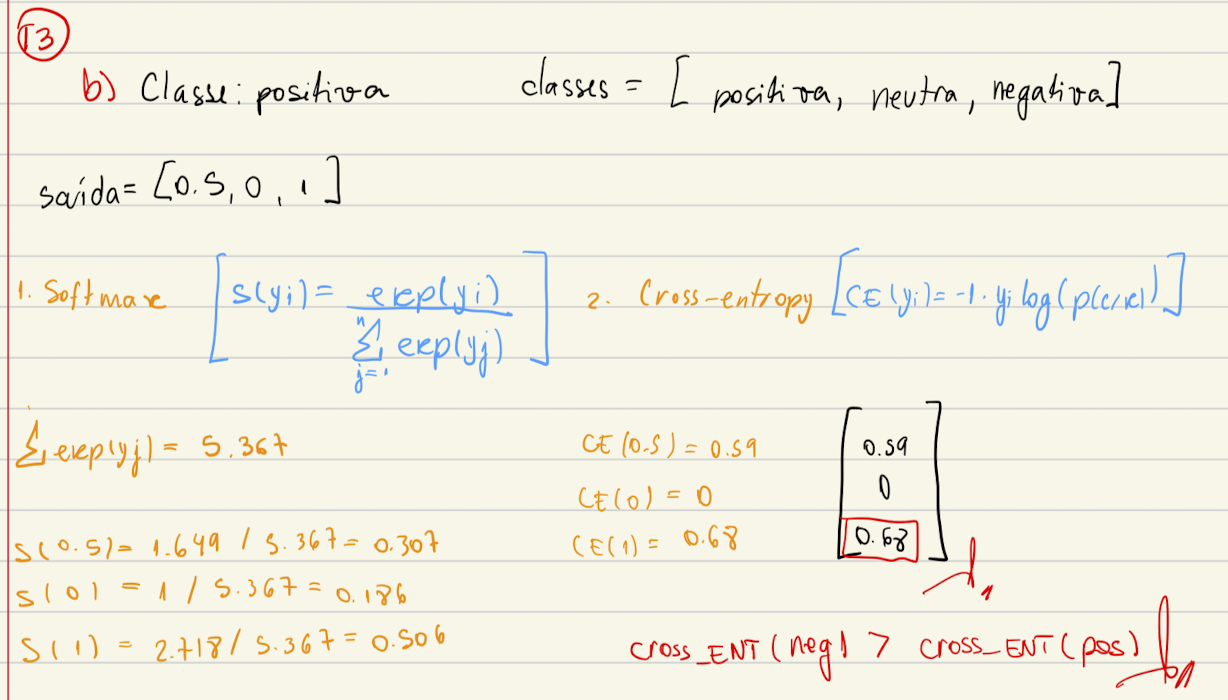
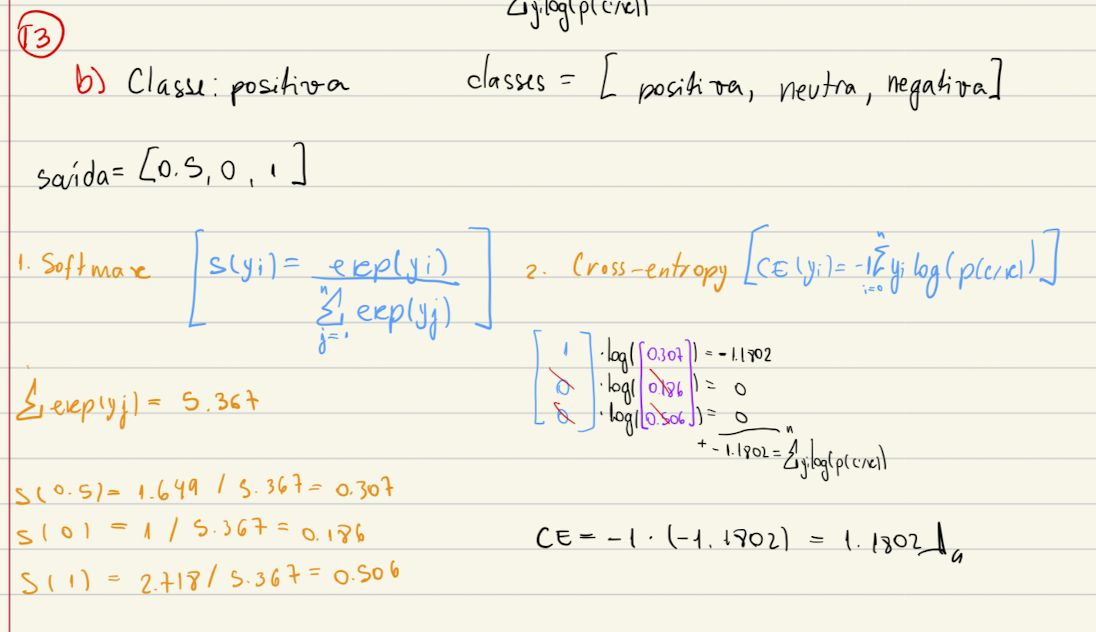
fixing cross entropy excs

Changed region(s): [[0.0, 0.0, 1.0, 1.0], [0.5274, 0.3608, 0.9927, 0.481], [0.2792, 0.3608, 0.4964, 0.5712]]

diff --git a/lista_2/Lista 2.md b/lista_2/Lista 2.md
@@ -10,7 +10,7 @@
 
 #### 2. Dado $[10,5,3,1,8]$ como saída de uma rede neural para um problema de cinco classes ($[ford,volks,gm,bmw,honda]$) onde a classe verdadeira do exemplo é ford. Calcule a entropia cruzada deste exemplo.
 
-![Exc 2](/lista_2/imgs/list2_exc2_gn.png)
+![Exc 2](/lista_2/imgs/l2_exc2_gn.png)
 
 #### 3. Explique como transformar validação cruzada em leave-one-out.
 
